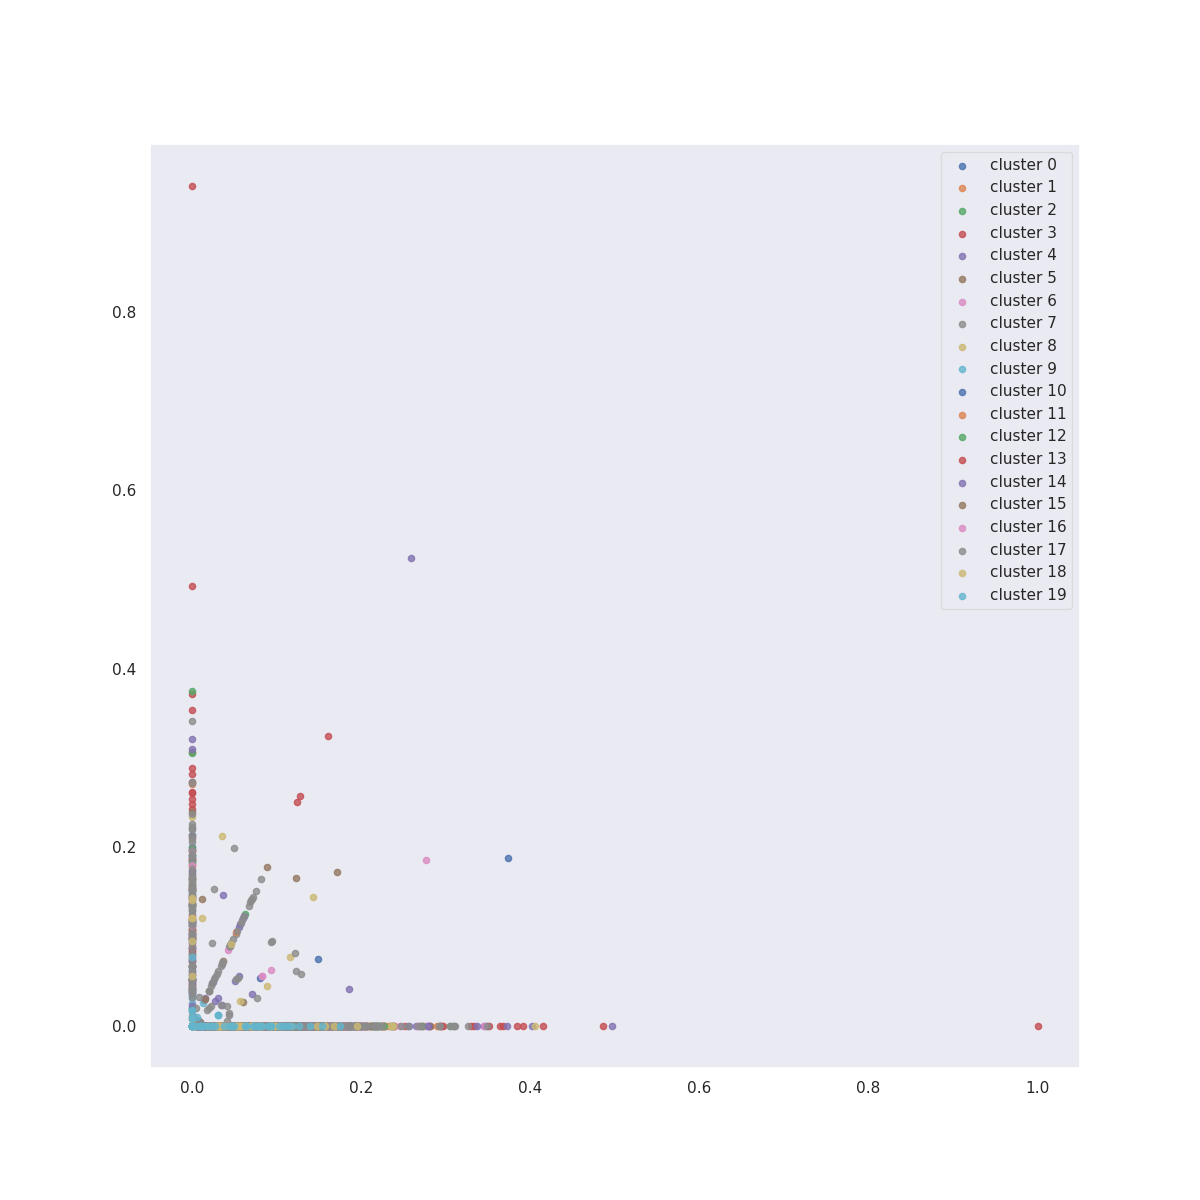
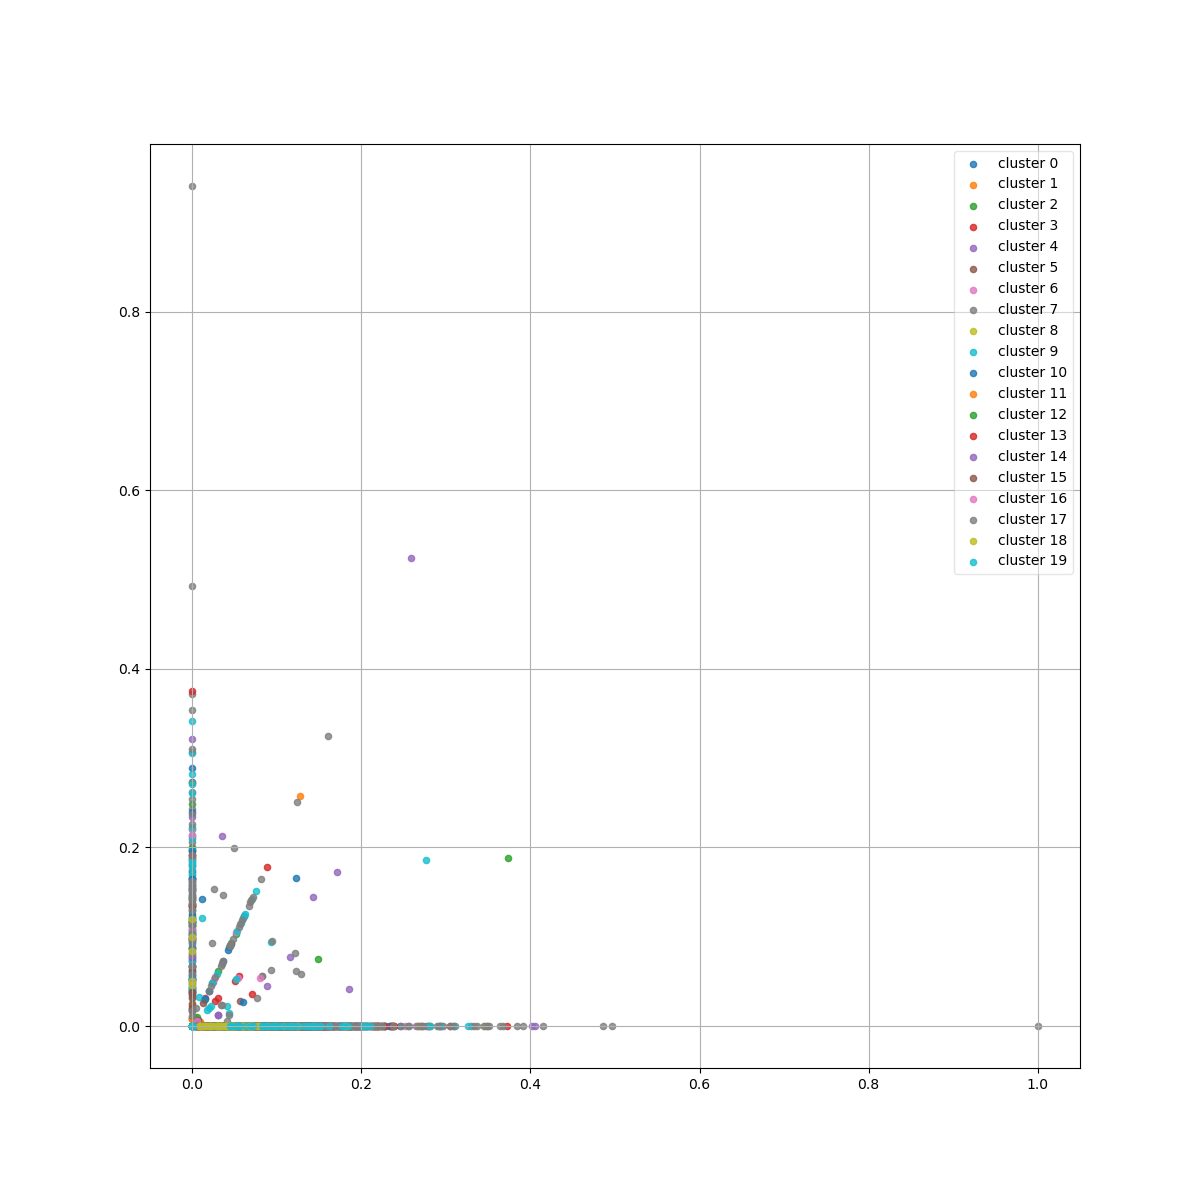
update code

diff --git a/main.py b/main.py
@@ -8,7 +8,6 @@ import seaborn as sns
 import pandas as pd
 from collections import OrderedDict
 from sklearn.datasets import fetch_20newsgroups
-from sklearn.manifold import TSNE
 from sklearn.cluster import KMeans
 from collections import defaultdict
 from nltk.tokenize import RegexpTokenizer
@@ -27,6 +26,8 @@ import matplotlib.cm as cm
 from sklearn.feature_extraction.text import CountVectorizer, TfidfTransformer
 from sklearn.manifold import TSNE
 from mpl_toolkits.mplot3d import Axes3D
+from sklearn.metrics.cluster import normalized_mutual_info_score as nmi_score
+
 TopicNum = 20
 def pre_processing(docs):
     tokenizer = RegexpTokenizer(r"\w+(?:[-'+]\w+)*|\w+")
@@ -100,16 +101,15 @@ def visualizeWrd2V(model):
 
     plt.savefig(f"./workdir/Word2Vec_TSNE.png")
 
-def KMeansCluster(X, true_k,transformer_type):
+def KMeansCluster(X, gnd, true_k,transformer_type):
 
     print('>>>>>>>>>>>>>> k-means clustering begin <<<<<<<<<<<<')
     km = KMeans(n_clusters=true_k,
                     init='k-means++',
-                    max_iter=10, n_init=1)
+                    max_iter=30, n_init=1)
     km.fit(X)
+    print('NMI score: ', nmi_score(gnd,km.labels_))
     clusters = km.labels_.tolist()
-    if transformer_type=='BOW':
-        X = X.toarray()
     y_km = km.fit_predict(X)
     plt.figure(figsize=(12,12))
     for i in range (0,true_k):
@@ -159,7 +159,13 @@ def backbone(transformer_type, corpus, dictionary, bow_corpus, model_path=''):
         print('new corpus shape is : ',len(new_corpus),', ',num_terms)
         new_corpus = np.transpose(corpus2dense(new_corpus, num_terms, num_docs))
         return new_corpus
-
+    elif transformer_type == 'BOW':
+        num_docs = len(bow_corpus)
+        num_terms = len(dictionary.keys())
+        #transoform TD-IDF-BOW to vector representation
+        print('new corpus shape is : ',len(bow_corpus),', ',num_terms)
+        new_corpus = np.transpose(corpus2dense(bow_corpus, num_terms, num_docs))
+        return new_corpus
     elif transformer_type == 'LDA':
         # Set training parameters.
         TopicNum = 10
@@ -223,7 +229,7 @@ def term_f_dist(rawdata,newdata):
     dist=[]
     for i in range(len(rawdata)):
         if len(rawdata[i]) ==0 or len(newdata[i]) ==0:
-            print('intdex:', i, ' has zeros: raw val ',len(rawdata[i]),'-- new val ',len(newdata[i]))
+            #print('intdex:', i, ' has zeros: raw val ',len(rawdata[i]),'-- new val ',len(newdata[i]))
             dist.append(1)
         else:
             dist.append(len(newdata[i])/len(rawdata[i]))
@@ -254,8 +260,8 @@ def docClustering(transformer_type, model_path):
         #generate corpus of 4 different methods(TF-IDF, LDA, Doc2Vec, Word2Vec)
         new_corpus = backbone(transformer_type, corpus1,
                             dictionary, bow_corpus, model_path)
-        TSNEVisualize(new_corpus,transformer_type, gnd,semantic_labels)
-        KMeansCluster(new_corpus, true_k,transformer_type)
+        #TSNEVisualize(new_corpus,transformer_type, gnd,semantic_labels)
+        KMeansCluster(new_corpus, gnd, true_k,transformer_type)
 
     #TSNEvisualize (TF-IDF, Doc2Vec, Word2Vec)
     elif transformer_type == 'LDA':
@@ -268,11 +274,10 @@ def docClustering(transformer_type, model_path):
             t = new_corpus.get_document_topics(bow)
             print(t)
     elif transformer_type == "BOW":
-        vectorizer = CountVectorizer(max_df=0.5,min_df=0.05,stop_words='english')
-
-        X = vectorizer.fit_transform(dataset.data)
-        #print(X)
-        KMeansCluster(X, true_k, transformer_type)
+        new_corpus = backbone(transformer_type, corpus1,
+                            dictionary, bow_corpus, model_path)
+        #TSNEVisualize(new_corpus,transformer_type, gnd,semantic_labels
+        KMeansCluster(new_corpus, gnd, true_k,transformer_type)
 
 
     else:   #transformer_type == 'W2V'
@@ -281,34 +286,12 @@ def docClustering(transformer_type, model_path):
         visualizeWrd2V(model)
         #this new_corpus is W2V model actually
 
-    #TSNEvisualize(TF-IDF, Doc2Vec)
-
-
-
-    #clustering
-    #true_k = np.unique(gnd).shape[0]
-    # print(true_k)
-    #km = KMeans(n_clusters=true_k,
-                #init='k-means++',
-                #max_iter=5, n_init=10)
-    #km.fit(new_corpus)
-    #clusters = km.labels_.tolist()
-    #print(len(clusters))
-    #sns.set_theme()
-    #fig = plt.figure()
-    #fig, ax = plt.subplots(1, 1, figsize=(12, 6))
-
-    #for i in range(len(new_corpus)):
-        #ax.scatter(new_corpus[i, 0], new_corpus[i, 1],
-                   #alpha=.8, label=clusters[i])
-    #ax.legend(fancybox=True, framealpha=0.5)
-    #fig.savefig('./temp.png', dpi=fig.dpi)
 
 
 
 
 
 if __name__ == '__main__':
-    transformer_type = 'TF_IDF'    #LDA/ D2V/ TF_IDF/BOW/W2V/BOW
-    model_path = ''
+    transformer_type = 'D2V'    #LDA/ D2V/ TF_IDF/BOW/W2V/BOW
+    model_path = './workdir/d2v_100_3_40.py'
     docClustering(transformer_type, model_path)
